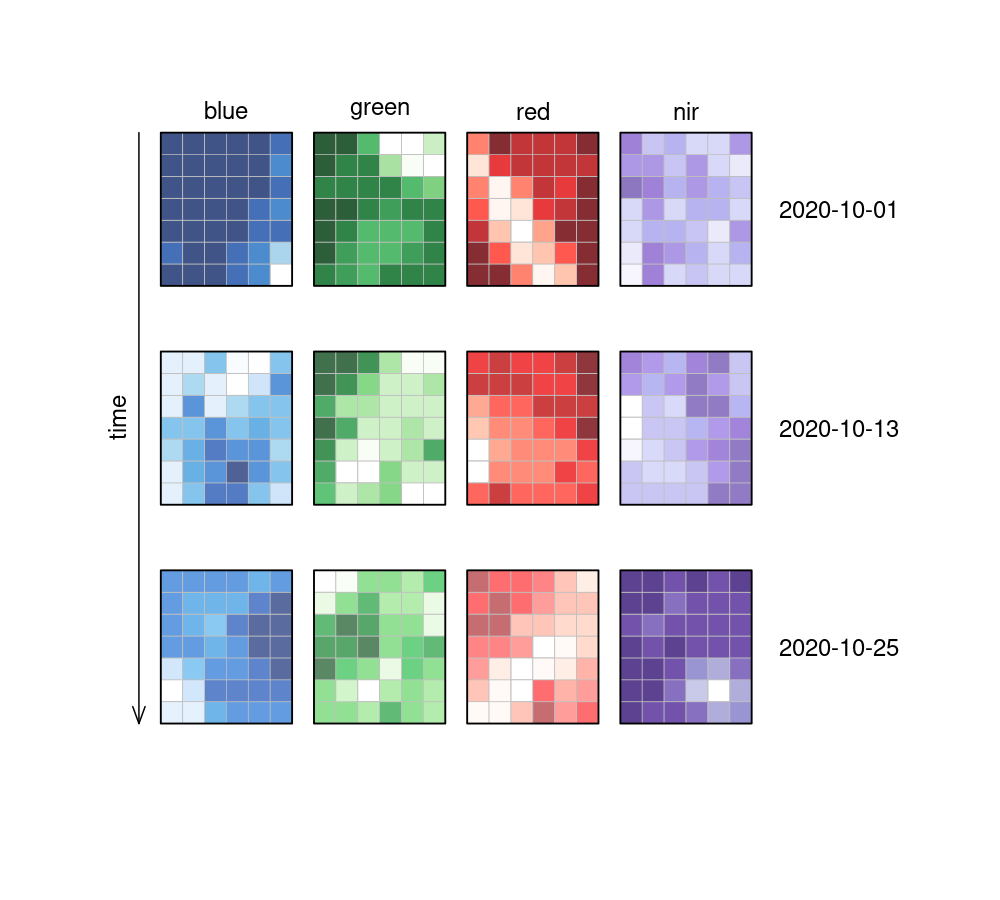
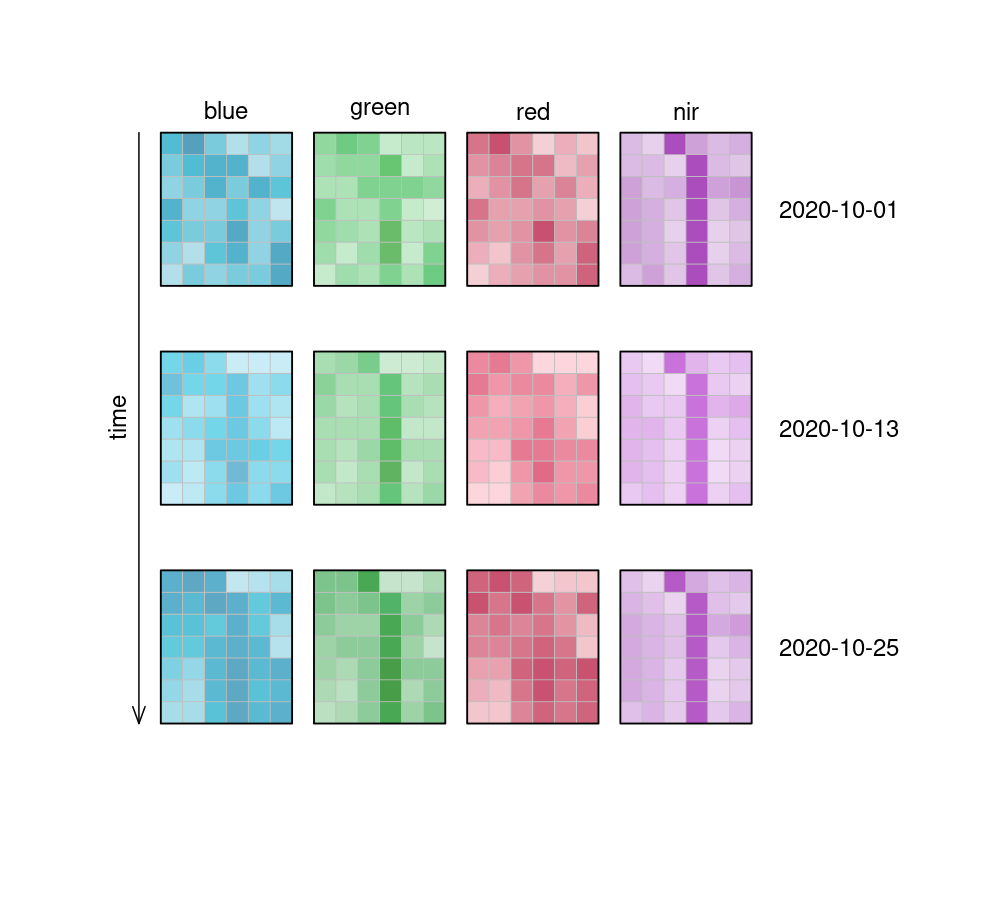
fix NAs, explicit rasters

Changed region(s): [[0.155, 0.1244, 0.775, 0.3422], [0.155, 0.3733, 0.775, 0.56], [0.155, 0.6222, 0.775, 0.8089]]

diff --git a/documentation/1.0/datacubes.md b/documentation/1.0/datacubes.md
@@ -4,40 +4,53 @@ Generic Intro
 
  TODOs / Questions:
 
- * make the rasters explicit, so a specific raster looks the same throughout all plots
- * fight the apparent NA holes
  * use of "pixel" vs "datapoint" or something else that is arbitrary
- * how to address people / personas i.e. "we", "you", "one"
- * 5x8 vs 6x7 design. 6x7 maybe little less "3D-like" but instead they make more sense when looked at vertically
- * 
+ * address as "we"
 
 ## What are Datacubes?
 
-Datacubes are multidimensional arrays with one or more spatial or temporal dimension(s). Most importantly, they are the way in which data is represented in OpenEO. They provide a nice and tidy _interface_ for all kinds of data and the operations you may want to execute on it. As they are arrays, it might be easiest to look at _raster_ data as an example, even though datacubes can hold vector data as well: Then, the dimensions would have a different meaning. Instead of `x` and `y` they could e.g. represent stations with a number of sensors. Our example data however consists of a 6x7 raster with 4 bands [`red`, `green`, `blue`, `near-infrared`] and 3 time steps [`2020-10-01`, `2020-10-13`, `2020-10-25`], displayed here in an orderly, time series like manner:
+Datacubes are multidimensional arrays with one or more spatial or temporal dimension(s). Most importantly, they are the way in which data is represented in OpenEO. They provide a nice and tidy interface for spatiotemproal data and the operations you may want to execute on it. As they are arrays, it might be easiest to look at _raster_ data as an example, even though datacubes can hold vector data as well: Then, the dimensions would have a different meaning. Instead of `x` and `y` they could e.g. represent stations with a number of sensors. Our example data however consists of a 6x7 raster with 4 bands [`red`, `green`, `blue`, `near-infrared`] and 3 time steps [`2020-10-01`, `2020-10-13`, `2020-10-25`], displayed here in an orderly, time series like manner:
 
 <figure>
     <img src="./dc_timeseries.png" alt="Datacube timeseries">
     <figcaption>6x7, new params</figcaption>
 </figure>
 
-It is important to understand that datacubes are designed to make things easier for us, and are not literally a cube, meaning that the above plot is just as good a way to represent the dimensionality than any other. That is why we can display the data how we want and play around a bit with the dimensions to maybe suit a specific one more:
-
-< image of another data cube view >
-
-Both of the above plots are just different ways to think of these 12 images:
+It is important to understand that datacubes are designed to make things easier for us, and are not literally a cube, meaning that the above plot is just as good a way to represent the dimensionality than any other. That is why we can display the data how we want and play around a bit with the dimensions, including this view:
 
 <figure>
     <img src="./dc_flat.png" alt="Datacube timeseries">
     <figcaption>This is the 'raw' data collection that is included in our example datacube. The grayscale values of the imagery are colored accordingly for understandability.</figcaption>
 </figure>
 
+## Dimensions
+ A dimension refers to a certain extent of a datacube. There are the obvious spatial dimensions x and y, and also the temporal dimension t. Furthermore there is the bands dimension, extending into the realm of _what_ is contained in the datacube.
+
+ There are multiple additional properties stored for each dimension:
+
+ * name
+ * axis / number
+ * type
+ * extents _or_ nominal dimension labels
+ * reference system / projections
+ * resolution
+
+Here is an overview of the dimensions contained in our example datacube above:
+
+| # | dimension name | dimension labels | resolution |
+|---|----------------|------------------| ---------- |
+| 1 | x              |288790.5, 288819, 288847.5, 288876, 288904.5, 288933 | 30m |
+| 2 | y              | 9120747, 9120718, 9120690, 9120661, 9120633, 9120604, 9120576 | 30m |
+| 3 | bands          | `red`, `green`, `blue`, `nir` | 4 bands |
+| 4 | time           | `2020-10-01`, `2020-10-13`, `2020-10-25` | 12 days |
+ 
+ ### Processes on Dimensions
+ Some processes are typically applied "along a dimension". You can imagine said dimension as an arrow and whatever is happening as a parallel process to that arrow. It simply means: "we focus on _this_ dimension right now".
+
+ ### Resolution
+ The resolution of a dimension gives information about what interval lies between observations. This is most obvious with the temporal resolution, where the intervals depict how often obervations were made. Spatial resolution gives information about the pixel spacing, meaning how many 'real world meters' are contained in a pixel. You can also think of how many bands you have as the resolution in the band dimension (i.e. spectral resolution).
+
 ## Functions on Datacubes
-
-Prior to diving into some basic functions on datacubes, we need to clarify a couple terms:
-
-**Dimension**: A dimension refers to a certain extent of a datacube. There are the obvious spatial dimensions x and y, and also the temporal dimension t. Furthermore there is the `bands` dimension, extending into the realm of _what_ is contained in the datacube. Some processes are typically applied "along a dimension". You can imagine said dimension as an arrow and whatever is happening as a parallel process to that arrow. It simply means: "we focus on _this_ dimension right now".
-
-**Resolution**: The resolution of a dimension gives information about what interval lies between observations. This is most obvious with the temporal resolution, where the intervals depict how often obervations were made. Spatial resolution gives information about the pixel spacing, meaning how many 'real world meters' are contained in a pixel. You can also think of how many bands you have as the resolution in the band dimension.
 
 **Reducer/Reducing**: A reducer is a function that _reduces_, _shrinks_ and _compresses_ a certain dimension when calculating the result. For example a mean is such a function. It takes input values and _shrinks_ them down to just one result. If we apply a mean on a time series,  the time dimension is reduced, meaning it _stops existing_ (a mean value has no timestamp). If we apply a mean on x, y (calculating a mean for the whole extent) then the spatial dimensions are reduced. We still know that this mean represents the whole area which consisted of, let's say 100x100 pixels just a second ago, but the mean itself has no spatial dimensions anymore. Reducers must not necessarily remove the dimension. If we reduce an example bands dimension [B,G,R,NIR] by calculating a NDVI to [B,G,NDVI], then the band dimension was reduced but still exists.
 
@@ -54,9 +67,11 @@ Here, a specific region of a specific band [`blue`] of a specific time interval 
 
 ### Apply
 
-When using `apply()`, the specified function is applied to all individual pixel values. An example is the absolute function (`abs()`). For each pixel (or data point), the absolute is computed and returned. This is called a unary function.
+When using `apply()`, the specified function is applied to all individual pixel values. An example is the absolute function (`abs()`). For each pixel (or data point), the absolute is computed and returned. This is called an unary function.
 
-Furthermore there are the `apply_*()` processes (e.g `apply_kernel()`, `apply_dimension()`, `apply_neighbourhood()`). They typically apply a function under the consideration of a (multidimensional) neighbourhood, or _along a dimension_. That could be a smoothing function applied spatially and/or temporally. The new pixel value is then calculated taking into account a pixel neighbourhood and/or a time series of the pixel. This is called an n-ary function.
+Furthermore there are the `apply_*()` processes (e.g `apply_kernel()`, `apply_dimension()`, `apply_neighbourhood()`). They typically apply a function under the consideration of a (multidimensional) neighbourhood, or along a dimension. That could be a smoothing function applied spatially and/or temporally. The new pixel value is then calculated taking into account a pixel neighbourhood and/or a time series of the pixel. This is called a n-ary function.
+
+Original dimensions and their resolutions usually remain unchanged when `apply()`-ing some process.
 
 <figure>
     <img src="./dc_apply_closeup.png" alt="Datacube timeseries">
@@ -65,8 +80,7 @@ Furthermore there are the `apply_*()` processes (e.g `apply_kernel()`, `apply_di
 
 ### Resample
 
-In a resampling process, the _layout_ of a certain dimension is changed into another _layout_, most likely also changing the resolution of that dimension. This is done by mapping values of the source (old) datacube to the new layout of the target (new) datacube. During that process, resolutions can be _upscaled_ or _downscaled_, depending on whether they have a finer or a coarser spacing afterwards. A prominent example is to _reproject_ a datacube (or any other georeferenced image) spatially.
-
+In a resampling process, the _layout_ of a certain dimension is changed into another _layout_, most likely also changing the resolution of that dimension. This is done by mapping values of the source (old) datacube to the new layout of the target (new) datacube. During that process, resolutions can be _upscaled_ or _downscaled_, depending on whether they have a finer or a coarser spacing afterwards. A prominent example is to reproject a datacube.
 ### Reduce
 
 The `reduce_dimension*()` process _collapses_ a whole dimension of the datacube. It does so by using some sort of _reducer_, which is a function that calculates a single result from an amount of values, as e.g. `mean()`, `min()` and `max()` are. For example can we reduce the time dimension by calculating the mean for each pixel in that time series. We are left with a cube that has no time dimension, because all values are compressed into a single mean value. The same goes for e.g. the spatial dimensions: If we calculate the mean along the `x` and `y` dimensions, we are left without any spatial dimensions, but a mean value for each "image".
@@ -76,13 +90,6 @@ Think of it as a waste press that does math instead of using brute force. Given 
 <figure>
     <img src="./dc_reduce.png" alt="Datacube timeseries">
     <figcaption>reduce</figcaption>
-</figure>
-
-Update: Display a transparent grid of the original dimensions. I like this second one but wanted to include the original idea above.
-
-<figure>
-    <img src="./dc_reduce_v2.png" alt="Datacube timeseries">
-    <figcaption>reduce, v2</figcaption>
 </figure>
 
 ### Aggregate
